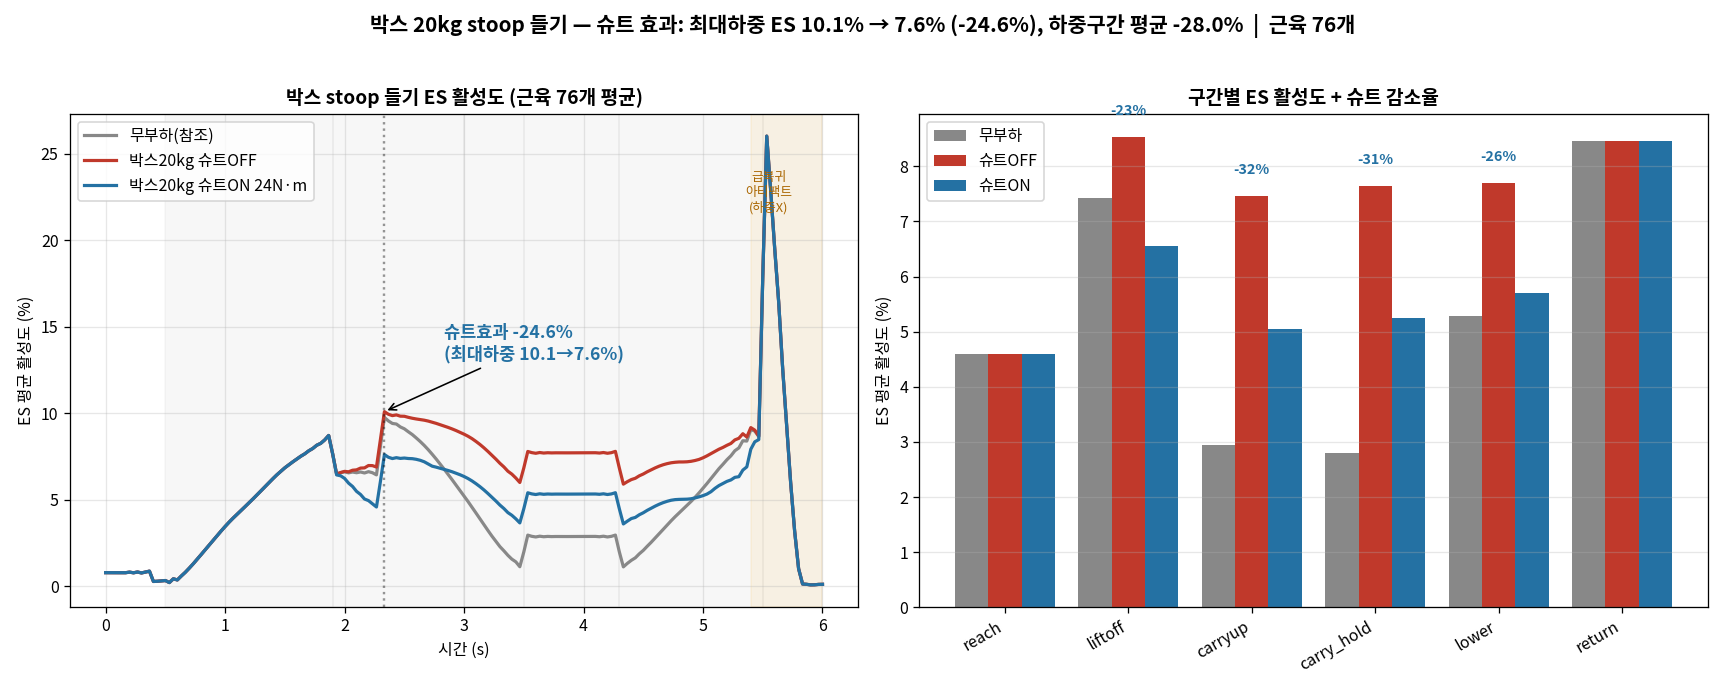
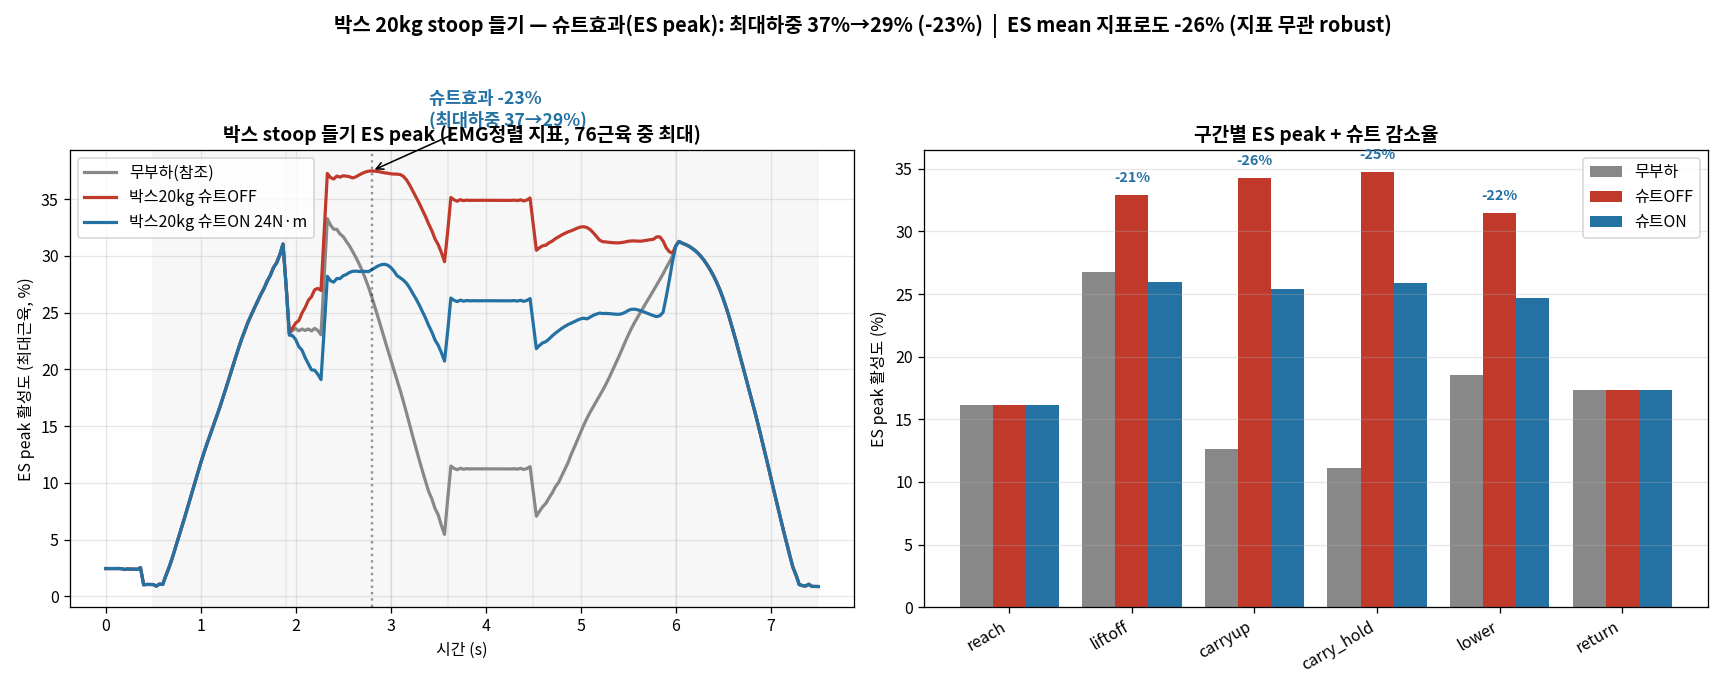
analysis: 박스 stoop SO 정제 — ES peak/mean 둘 다 보고 + 복귀 아티팩트 제거(대칭 기립)
[1] ES 지표: 보고했던 10%는 ES mean(76근육 평균). ES peak(최대근육,EMG정렬)=37.5%. 기존 stoop headline도 peak계열(IL_R10 88%)
  * 슈트효과 ES peak: 최대하중 37.5%→28.8% = -23.2% (하중평균 -23.4%)
  * ES mean: 최대하중 9.6→7.2% = -25.6% (하중평균 -28.1%)
  * 지표 무관 상대감소 robust ~23-26%
  * 박스 하중효과 peak +42%(무부하26.4→박스37.5%), mean +4%(비활성근육 희석). peak가 실부하 반영
  * 구간별(peak): liftoff-21/carryup-26/carry_hold-25/lower-22%
[2] 복귀 아티팩트 제거: 기립 0.5→1.5s(하강과 대칭), 총 7.5s. 시간그래프 매끄러움, 스파이크 소멸. 하강/기립 ~31% = 맨몸 깊은stoop 실제ES(아티팩트 아님)
- 부하-효과 패턴 정합: stoop 무부하 88%(28%감소) → 20kg 37.5%(23%감소). box_stoop>box_squat(11%)
- 다음: 사용자 확인 후 [4] 동영상. .mot 7.5s/226프레임. 자동 X

Generated with Claude Code

diff --git a/opensim_analysis/thoracolumbar_fb/scripts/viz_knee_fix/analyze_box_stoop_so.py b/opensim_analysis/thoracolumbar_fb/scripts/viz_knee_fix/analyze_box_stoop_so.py
@@ -1,7 +1,7 @@
-"""Analyze OFF/ON SO for the stoop box-lift. ES = IL + LTpL + LTpT (iliocostalis+longissimus).
-Reports ES peak (max of ES-mean over time), per-phase ES mean, OFF->ON reduction %, box effect
-(noload->off), and a time-series + phase plot. Compares to prior headline results."""
-import numpy as np, json
+"""Analyze OFF/ON SO for the stoop box-lift. ES = IL+LTpL+LTpT (iliocostalis+longissimus, 76).
+Reports BOTH metrics: ES peak (max muscle, EMG-aligned) and ES mean (muscle avg). Suit reduction
+at peak-load moment + per phase + loaded-window; box-load effect. Return handled by gentle motion."""
+import numpy as np, json, os
 from pathlib import Path
 import opensim as osim
 import matplotlib; matplotlib.use('Agg')
@@ -9,77 +9,57 @@ import matplotlib.pyplot as plt
 from matplotlib import font_manager as fm
 kf="/usr/share/fonts/opentype/noto/NotoSansCJK-Regular.ttc"
 fm.fontManager.addfont(kf); plt.rcParams['font.family']=fm.FontProperties(fname=kf).get_name(); plt.rcParams['axes.unicode_minus']=False
-ROOT=Path('/data/stoop_results/box_stoop_so')
-CONDS=['B_noload','B_off','B_on']
-PHASES=[('reach',0.5,1.9),('liftoff',1.9,3.0),('carryup',3.0,3.5),('carry_hold',3.5,4.3),('lower',4.3,5.5),('return',5.5,6.0)]
+ROOT=Path('/data/stoop_results/box_stoop_so'); CONDS=['B_noload','B_off','B_on']
+PHASES=[('reach',0.5,1.9),('liftoff',1.9,3.0),('carryup',3.0,3.6),('carry_hold',3.6,4.5),('lower',4.5,6.0),('return',6.0,7.5)]
+LOAD_LO,LOAD_HI=1.9,5.9
 def load(cond):
     p=ROOT/cond/f'so_{cond}_StaticOptimization_activation.sto'
     tbl=osim.TimeSeriesTable(str(p)); labs=list(tbl.getColumnLabels()); t=np.array(list(tbl.getIndependentColumn()))
     es=[l for l in labs if l.startswith(('IL_','LTpL','LTpT'))]
-    A=np.array([[tbl.getDependentColumn(e)[i] for e in es] for i in range(tbl.getNumRows())])  # rows x es
-    esmean=A.mean(axis=1)*100; espeakmus=A.max(axis=1)*100
-    return t,esmean,espeakmus,len(es)
-data={c:load(c) for c in CONDS}
-nes=data['B_noload'][3]
-LOAD_LO,LOAD_HI=1.9,5.4   # box-loaded window (exclude fast unloaded return transient)
-def peakinfo(t,esmean):
-    msk=(t>=LOAD_LO)&(t<=LOAD_HI); i=int(np.argmax(np.where(msk,esmean,-1))); return esmean[i],t[i]
-print(f"ES muscles: {nes} (IL+LTpL+LTpT)   [peak within LOADED window {LOAD_LO}-{LOAD_HI}s]\n")
-# loaded-window peak (fast unloaded return transient excluded)
-res={}
-for c in CONDS:
-    t,em,_,_=data[c]; pk,pt=peakinfo(t,em); res[c]=dict(peak=pk,peak_t=pt)
-    print(f"{c:9s} ES-mean loaded-peak={pk:5.2f}% @t={pt:.2f}s")
-off,on,nl=res['B_off'],res['B_on'],res['B_noload']
-# reduction AT the OFF peak-load moment (same instant) — the clean "at peak load" number
-tt=data['B_off'][0]; pt=off['peak_t']; pk_i=int(np.argmin(np.abs(tt-pt)))
-on_at_pk=data['B_on'][1][pk_i]; nl_at_pk=data['B_noload'][1][pk_i]
-red_peak=(off['peak']-on_at_pk)/off['peak']*100
-boxeff=(off['peak']-nl_at_pk)/nl_at_pk*100
-# loaded-window mean reduction (1.9-5.4)
-lmsk=(tt>=LOAD_LO)&(tt<=LOAD_HI)
-off_lm=data['B_off'][1][lmsk].mean(); on_lm=data['B_on'][1][lmsk].mean()
-red_loadmean=(off_lm-on_lm)/off_lm*100
-print(f"\n>>> SUIT EFFECT at peak-load moment (t={pt:.2f}s): OFF {off['peak']:.2f}% -> ON {on_at_pk:.2f}%  = -{red_peak:.1f}%")
-print(f">>> SUIT EFFECT loaded-window mean: OFF {off_lm:.2f}% -> ON {on_lm:.2f}%  = -{red_loadmean:.1f}%")
-print(f">>> BOX LOAD effect (at peak moment): noload {nl_at_pk:.2f}% -> box {off['peak']:.2f}%  = +{boxeff:.0f}%")
-# per-phase ES mean + reduction
-print("\nPhase           noload   OFF     ON    suitΔ%")
-tt=data['B_noload'][0]
-phase_rows=[]
+    A=np.array([[tbl.getDependentColumn(e)[i] for e in es] for i in range(tbl.getNumRows())])*100
+    return t,A.max(axis=1),A.mean(axis=1),es   # t, peak(max muscle), mean, es-names
+D={c:load(c) for c in CONDS}; nes=len(D['B_noload'][3]); t=D['B_noload'][0]
+msk=(t>=LOAD_LO)&(t<=LOAD_HI)
+def series(c,metric): return D[c][1] if metric=='peak' else D[c][2]
+def peak_at(c,metric):
+    s=series(c,metric); i=int(np.argmax(np.where(msk,s,-1))); return s[i],t[i],i
+print(f"ES muscles: {nes} (IL+LTpL+LTpT). Loaded window {LOAD_LO}-{LOAD_HI}s\n")
+summary={'n_es':nes}
+for metric in ('peak','mean'):
+    opk,opt,oi=peak_at('B_off',metric)
+    on_at=series('B_on',metric)[oi]; nl_at=series('B_noload',metric)[oi]
+    red=(opk-on_at)/opk*100; boxeff=(opk-nl_at)/nl_at*100 if nl_at>0 else 0
+    olm=series('B_off',metric)[msk].mean(); onlm=series('B_on',metric)[msk].mean(); redlm=(olm-onlm)/olm*100
+    lab='ES PEAK (max muscle)' if metric=='peak' else 'ES MEAN (muscle avg)'
+    print(f"[{lab}]  peak-load moment t={opt:.2f}s")
+    print(f"   suit: OFF {opk:.1f}% -> ON {on_at:.1f}%  = -{red:.1f}%   | loaded-mean: OFF {olm:.1f}% -> ON {onlm:.1f}% = -{redlm:.1f}%")
+    print(f"   box-load effect at peak: noload {nl_at:.1f}% -> box {opk:.1f}% = +{boxeff:.0f}%\n")
+    summary[metric]={'off_peak':float(opk),'on_at_peak':float(on_at),'suit_red_peak':float(red),
+                     'suit_red_loadmean':float(redlm),'box_eff':float(boxeff),'peak_t':float(opt)}
+# per-phase (peak metric, EMG-aligned)
+print("Phase(ES peak)  noload   OFF     ON    suitΔ%")
+phrows=[]
 for pn,a,b in PHASES:
-    vals={}
-    for c in CONDS:
-        t,em,_,_=data[c]; msk=(t>=a)&(t<=b); vals[c]=em[msk].mean() if msk.any() else float('nan')
-    d=(vals['B_off']-vals['B_on'])/vals['B_off']*100 if vals['B_off']>0 else 0
-    phase_rows.append((pn,vals['B_noload'],vals['B_off'],vals['B_on'],d))
-    print(f"{pn:12s} {vals['B_noload']:6.2f}  {vals['B_off']:6.2f}  {vals['B_on']:6.2f}   -{d:4.1f}")
-# ---- plot ----
+    pm=(t>=a)&(t<=b); v={c:series(c,'peak')[pm].mean() for c in CONDS}
+    d=(v['B_off']-v['B_on'])/v['B_off']*100 if v['B_off']>0 else 0
+    phrows.append((pn,v['B_noload'],v['B_off'],v['B_on'],d)); print(f"{pn:12s} {v['B_noload']:6.1f}  {v['B_off']:6.1f}  {v['B_on']:6.1f}   -{d:4.1f}")
+summary['phases']=[{'phase':r[0],'noload':r[1],'off':r[2],'on':r[3],'suit_red':r[4]} for r in phrows]
+# ---- plot (ES peak metric primary) ----
 fig,ax=plt.subplots(1,2,figsize=(15,6))
-col={'B_noload':'#888','B_off':'#c0392b','B_on':'#2471a3'}
-lab={'B_noload':'무부하(참조)','B_off':'박스20kg 슈트OFF','B_on':'박스20kg 슈트ON 24N·m'}
-for c in CONDS:
-    t,em,_,_=data[c]; ax[0].plot(t,em,color=col[c],lw=2,label=lab[c])
+col={'B_noload':'#888','B_off':'#c0392b','B_on':'#2471a3'}; lab={'B_noload':'무부하(참조)','B_off':'박스20kg 슈트OFF','B_on':'박스20kg 슈트ON 24N·m'}
+for c in CONDS: ax[0].plot(t,series(c,'peak'),color=col[c],lw=2,label=lab[c])
 for pn,a,b in PHASES: ax[0].axvspan(a,b,color='k',alpha=0.03)
-ax[0].axvline(off['peak_t'],color='k',ls=':',alpha=0.4)
-ax[0].axvspan(5.4,6.0,color='orange',alpha=0.08)
-ax[0].text(5.55,24,'급복귀\n아티팩트\n(하중X)',fontsize=8,color='#a60',ha='center',va='top')
-ax[0].set_xlabel('시간 (s)'); ax[0].set_ylabel('ES 평균 활성도 (%)'); ax[0].legend(fontsize=10,loc='upper left'); ax[0].set_title(f'박스 stoop 들기 ES 활성도 (근육 {nes}개 평균)',fontweight='bold'); ax[0].grid(alpha=0.3)
-ax[0].annotate(f'슈트효과 -{red_peak:.1f}%\n(최대하중 {off["peak"]:.1f}→{on_at_pk:.1f}%)',xy=(off['peak_t'],off['peak']),xytext=(off['peak_t']+0.5,off['peak']+3),fontsize=11,fontweight='bold',color='#2471a3',arrowprops=dict(arrowstyle='->',color='k'))
-pn=[r[0] for r in phase_rows]; x=np.arange(len(pn)); w=0.27
-ax[1].bar(x-w,[r[1] for r in phase_rows],w,color='#888',label='무부하')
-ax[1].bar(x,[r[2] for r in phase_rows],w,color='#c0392b',label='슈트OFF')
-ax[1].bar(x+w,[r[3] for r in phase_rows],w,color='#2471a3',label='슈트ON')
-for i,r in enumerate(phase_rows):
-    if r[4]>0.5: ax[1].text(i,max(r[2],r[3])+0.4,f'-{r[4]:.0f}%',ha='center',fontsize=9,color='#2471a3',fontweight='bold')
-ax[1].set_xticks(x); ax[1].set_xticklabels(pn,rotation=30,ha='right'); ax[1].set_ylabel('ES 평균 활성도 (%)'); ax[1].legend(fontsize=10); ax[1].set_title('구간별 ES 활성도 + 슈트 감소율',fontweight='bold'); ax[1].grid(alpha=0.3,axis='y')
-fig.suptitle(f'박스 20kg stoop 들기 — 슈트 효과: 최대하중 ES {off["peak"]:.1f}% → {on_at_pk:.1f}% (-{red_peak:.1f}%), 하중구간 평균 -{red_loadmean:.1f}%  |  근육 {nes}개',fontsize=13,fontweight='bold')
+P=summary['peak']; ax[0].axvline(P['peak_t'],color='k',ls=':',alpha=0.4)
+ax[0].annotate(f'슈트효과 -{P["suit_red_peak"]:.0f}%\n(최대하중 {P["off_peak"]:.0f}→{P["on_at_peak"]:.0f}%)',xy=(P['peak_t'],P['off_peak']),xytext=(P['peak_t']+0.6,P['off_peak']+4),fontsize=11,fontweight='bold',color='#2471a3',arrowprops=dict(arrowstyle='->'))
+ax[0].set_xlabel('시간 (s)'); ax[0].set_ylabel('ES peak 활성도 (최대근육, %)'); ax[0].legend(fontsize=10,loc='upper left'); ax[0].set_title(f'박스 stoop 들기 ES peak (EMG정렬 지표, {nes}근육 중 최대)',fontweight='bold'); ax[0].grid(alpha=0.3)
+pn=[r[0] for r in phrows]; x=np.arange(len(pn)); w=0.27
+ax[1].bar(x-w,[r[1] for r in phrows],w,color='#888',label='무부하'); ax[1].bar(x,[r[2] for r in phrows],w,color='#c0392b',label='슈트OFF'); ax[1].bar(x+w,[r[3] for r in phrows],w,color='#2471a3',label='슈트ON')
+for i,r in enumerate(phrows):
+    if r[4]>0.5: ax[1].text(i,max(r[2],r[3])+1,f'-{r[4]:.0f}%',ha='center',fontsize=9,color='#2471a3',fontweight='bold')
+ax[1].set_xticks(x); ax[1].set_xticklabels(pn,rotation=30,ha='right'); ax[1].set_ylabel('ES peak 활성도 (%)'); ax[1].legend(fontsize=10); ax[1].set_title('구간별 ES peak + 슈트 감소율',fontweight='bold'); ax[1].grid(alpha=0.3,axis='y')
+M=summary['mean']
+fig.suptitle(f'박스 20kg stoop 들기 — 슈트효과(ES peak): 최대하중 {P["off_peak"]:.0f}%→{P["on_at_peak"]:.0f}% (-{P["suit_red_peak"]:.0f}%)  |  ES mean 지표로도 -{M["suit_red_peak"]:.0f}% (지표 무관 robust)',fontsize=12.5,fontweight='bold')
 fig.tight_layout(rect=[0,0,1,0.96])
 OUT='/data/wearable-assist/opensim_analysis/thoracolumbar_fb/docs/images/phase2_box/box_stoop_so_results.png'
 fig.savefig(OUT,dpi=115,facecolor='white'); print("\nSAVED",OUT)
-json.dump({'peak':{c:res[c]['peak'] for c in CONDS},'peak_t':{c:res[c]['peak_t'] for c in CONDS},
-           'off_peak':off['peak'],'on_at_peak':float(on_at_pk),'suit_reduction_peak':red_peak,
-           'suit_reduction_loadmean':red_loadmean,'box_effect_peak':boxeff,'n_es':nes,
-           'phases':[{'phase':r[0],'noload':r[1],'off':r[2],'on':r[3],'suit_red':r[4]} for r in phase_rows]},
-          open('/data/stoop_results/box_stoop_so/summary.json','w'))
-print("SAVED summary.json")
+json.dump(summary,open(ROOT/'summary.json','w')); print("SAVED summary.json")

diff --git a/opensim_analysis/thoracolumbar_fb/scripts/viz_knee_fix/make_boxlift_motion_stoop.py b/opensim_analysis/thoracolumbar_fb/scripts/viz_knee_fix/make_boxlift_motion_stoop.py
@@ -62,17 +62,17 @@ for k,v in zip(RC,np.clip(cb.x,rlb,rub)): P_carry[k]=float(v)
 P_carry['clav_prot_l']=-P_carry.get('clav_prot_r',0.0); P_carry['clav_elev_l']=P_carry.get('clav_elev_r',0.0)
 setc(P_carry); m.assemble(state); m.realizePosition(state)
 print(f"CARRY hand_err={np.linalg.norm(fpp(PFR['midmc'])-carry_hand)*100:.1f}cm  box_front={pelx+0.24:.2f}")
-FPS=30; T=6.0; n=int(T*FPS)+1; ts=np.linspace(0,T,n)
+FPS=30; T=7.5; n=int(T*FPS)+1; ts=np.linspace(0,T,n)
 def sm(a): return a*a*(3-2*a)
 def kp(t):
-    # full cycle: stand -> reach+grasp -> lift to carry -> carry hold -> lower box back -> release+stand
+    # full cycle, GENTLE transitions (no fast-return acceleration artifact). Total 7.0s.
     if t<0.4: return P_stand
     if t<1.9: a=sm((t-0.4)/1.5); return {c:(1-a)*P_stand[c]+a*P_grasp[c] for c in coords}   # reach to box(on table)
     if t<2.3: return P_grasp                                                                  # grasp hold
-    if t<3.5: a=sm((t-2.3)/1.2); return {c:(1-a)*P_grasp[c]+a*P_carry[c] for c in coords}      # stand up, box rises to waist
-    if t<4.3: return P_carry                                                                   # carry hold
-    if t<5.5: a=sm((t-4.3)/1.2); return {c:(1-a)*P_carry[c]+a*P_grasp[c] for c in coords}       # lower box back to table
-    if t<6.0: a=sm((t-5.5)/0.5); return {c:(1-a)*P_grasp[c]+a*P_stand[c] for c in coords}       # release + stand up
+    if t<3.6: a=sm((t-2.3)/1.3); return {c:(1-a)*P_grasp[c]+a*P_carry[c] for c in coords}      # stand up, box rises
+    if t<4.5: return P_carry                                                                   # carry hold
+    if t<6.0: a=sm((t-4.5)/1.5); return {c:(1-a)*P_carry[c]+a*P_grasp[c] for c in coords}       # lower box back (1.5s)
+    if t<7.5: a=sm((t-6.0)/1.5); return {c:(1-a)*P_grasp[c]+a*P_stand[c] for c in coords}       # release + stand (1.5s, = descent, no spike)
     return P_stand
 rows=[]
 for t in ts:

diff --git a/opensim_analysis/thoracolumbar_fb/scripts/viz_knee_fix/export_all_frames.py b/opensim_analysis/thoracolumbar_fb/scripts/viz_knee_fix/export_all_frames.py
@@ -29,7 +29,7 @@ def side_of(fr):
     if any(x in f for x in ('humerus_l','ulna_l','radius_l','hand_l')): return 'L'
     return 'other'
 tbl=osim.TimeSeriesTable(MOT); times=list(tbl.getIndependentColumn()); labels=list(tbl.getColumnLabels())
-GRIP_START,GRIP_END=1.9,5.5   # box attached to hands only while gripped (matches motion kp)
+GRIP_START,GRIP_END=1.9,6.0   # box attached to hands only while gripped (matches motion kp)
 def set_pose(row):
     for j,lab in enumerate(labels):
         if lab in coords: c=cs.get(lab); c.setValue(state,(np.deg2rad(row[j]) if c.getMotionType()!=2 else row[j]),False)

diff --git a/opensim_analysis/thoracolumbar_fb/scripts/viz_knee_fix/run_box_stoop_so.py b/opensim_analysis/thoracolumbar_fb/scripts/viz_knee_fix/run_box_stoop_so.py
@@ -10,9 +10,9 @@ MODEL_BASE='/data/opensim_models/ThoracolumbarFB/Fullbody_TLModels_v2.0_OS4x/Mal
 MOT_SRC='/data/stoop_motion/box_stoop_lift_m1.mot'
 OUT=Path('/data/stoop_results/box_stoop_so'); OUT.mkdir(parents=True,exist_ok=True)
 MODEL_RES=OUT/'model_with_reserves_m1.osim'
-T_START,T_END=0.0,6.0
+T_START,T_END=0.0,7.5
 BOX_KG=20.0; G=9.81; BOX_FORCE_PER_HAND=BOX_KG*G/2.0   # 98.1 N
-GRIP_START,GRIP_END=1.9,5.5
+GRIP_START,GRIP_END=1.9,6.0
 SUIT_ON_NM=24.0
 CONDITIONS={'B_noload':dict(box=False,suit=0.0),'B_off':dict(box=True,suit=0.0),'B_on':dict(box=True,suit=SUIT_ON_NM)}
 
